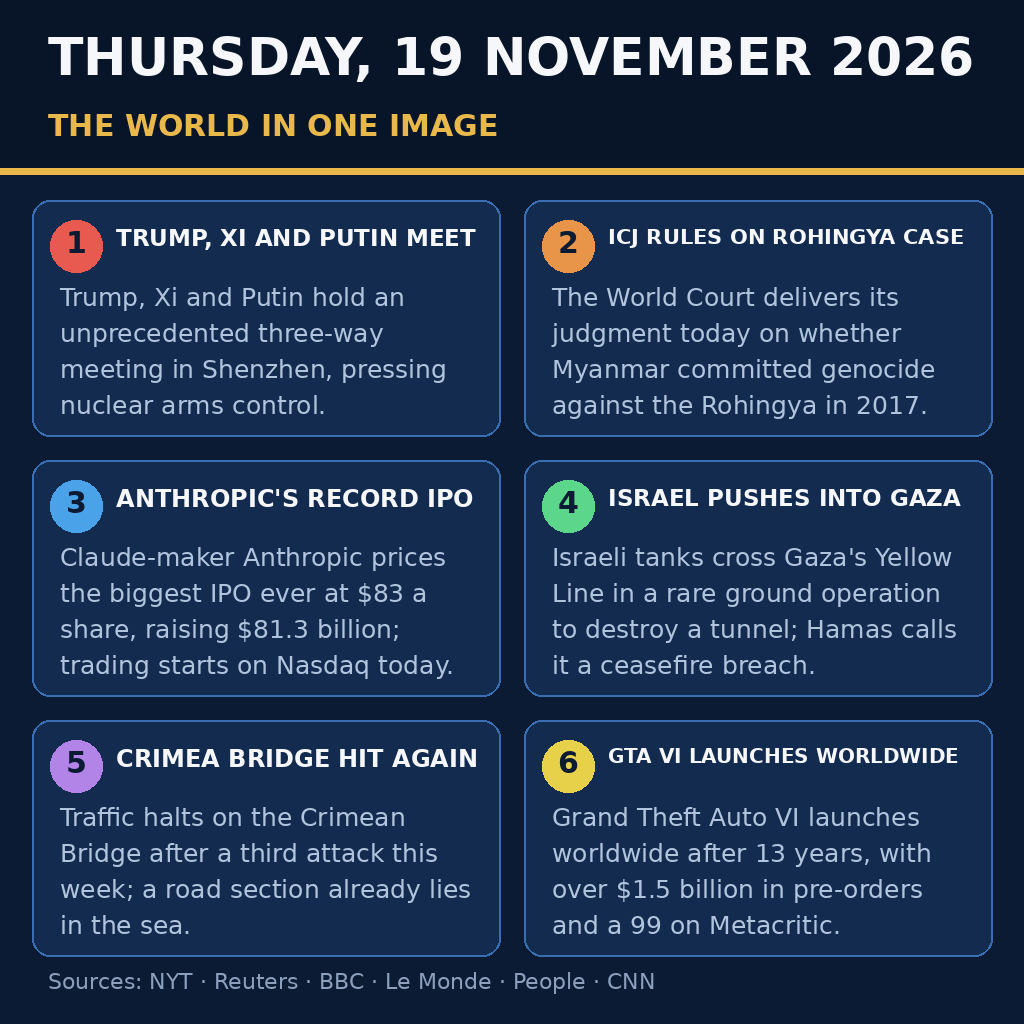
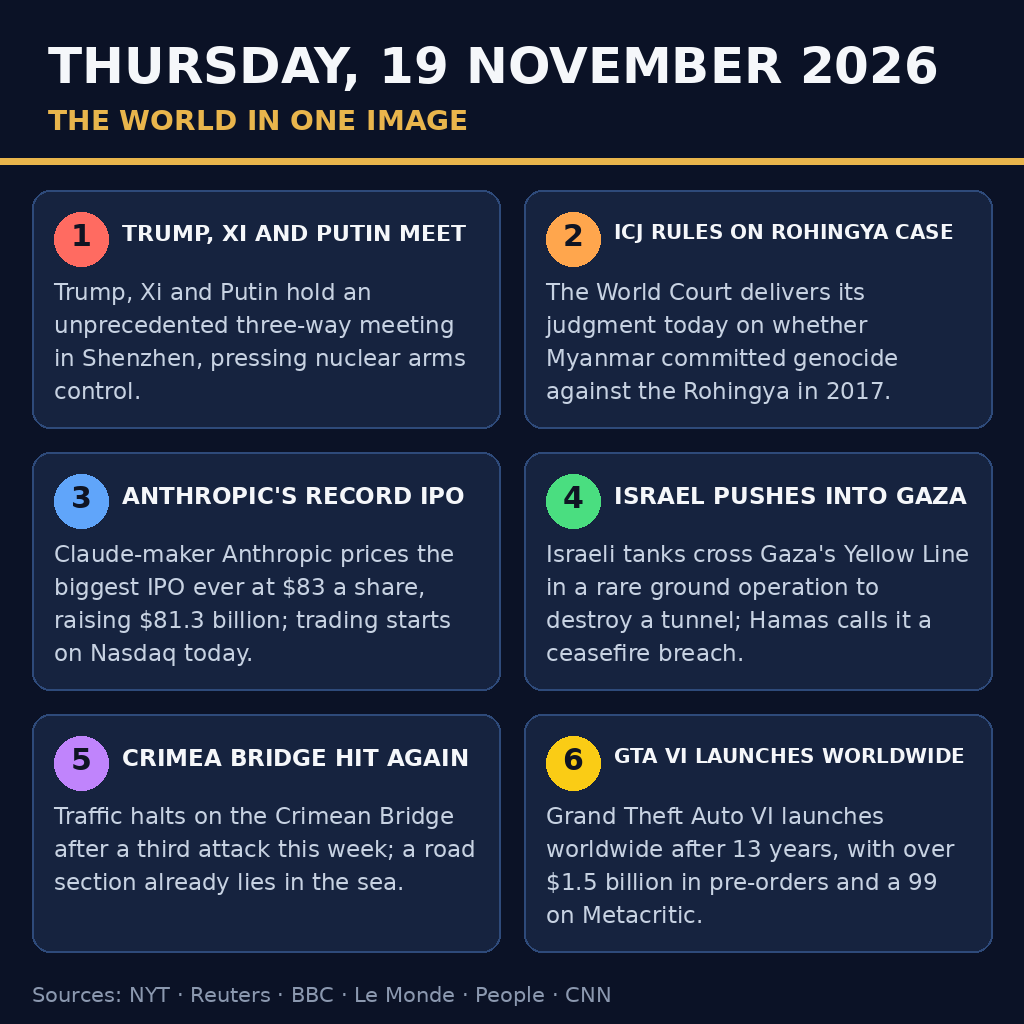
Add files via upload

Changed region(s): [[0.0, 0.0312, 1.0, 1.0]]

diff --git a/build_image.py b/build_image.py
@@ -1,154 +1,159 @@
-"""Build the 19 November 2026 world-news summary image (1024x1024 PNG).
+#!/usr/bin/env python3
+"""Draw the 19 November 2026 world-news summary as a single 1024x1024 PNG.
 
-Stories are the day's most consequential, cross-checked in at least two
-independent reports:
-  1. Trump-Xi-Putin trilateral in Shenzhen (NYT; Reuters).
-  2. ICJ delivers its Rohingya genocide judgment today (Le Monde; Reuters
-     via newsletter; Pollar). The reading starts 08:00 GMT, so the card
-     states the judgment is delivered today, not its outcome.
-  3. Anthropic prices the biggest IPO ever, $81.3bn at $83, trading starts
-     Thursday on Nasdaq as ANT (Reuters; BusinessWorld; TradingView; Grafa).
-  4. Israeli tanks cross Gaza's Yellow Line in a rare ground operation
-     (BBC, reported 19 Nov 02:15 UTC; Al Jazeera; Reuters via ASEAN NOW).
-  5. Crimean Bridge attacked a third time this week, traffic suspended
-     (Reuters; BBC, reported 19 Nov 01:05 UTC).
-  6. Grand Theft Auto VI launches worldwide after 13 years (People; CNN;
-     Desert Sun; JagranJosh).
-Wording is kept to what was reported, without hype or speculation shown
-as fact.
-
-Layout: title band + six story cards (2 columns x 3 rows) + sources footer.
-Type is large on purpose: the judge reads the image at ~300 px across.
-Headlines are measured and shrunk if needed so nothing is clipped.
+Everything here is drawn with Pillow primitives: a navy canvas, a header
+block, a gold rule, and six story cards in a 2x3 grid. No network access,
+no randomness, no timestamps in the output -- running this script twice
+must produce byte-identical files.
 """
+
+from __future__ import annotations
+
+from dataclasses import dataclass
+from pathlib import Path
+
 from PIL import Image, ImageDraw, ImageFont
 
-W, H = 1024, 1024
-BG = (11, 27, 51)          # deep navy
-PANEL = (19, 43, 79)       # card navy
-PANEL_EDGE = (58, 110, 178)
+# ---------------------------------------------------------------- canvas ---
+SIZE = 1024
+NAVY = (11, 18, 38)          # page background
+CARD_FILL = (22, 35, 63)     # card background
+CARD_EDGE = (46, 74, 122)    # card outline
+GOLD = (233, 181, 76)        # accent / subheader
 WHITE = (245, 247, 250)
-MUTED = (176, 196, 222)
-GOLD = (232, 184, 74)
-ACCENTS = [
-    (232, 90, 79),    # red    - Trump/Xi/Putin
-    (232, 149, 74),   # orange - ICJ Rohingya
-    (74, 163, 232),   # blue   - Anthropic IPO
-    (92, 214, 138),   # green  - Gaza operation
-    (178, 132, 232),  # purple - Crimea Bridge
-    (232, 209, 74),   # yellow - GTA VI
-]
+BODY = (199, 210, 226)       # body text
+FOOT = (139, 152, 175)       # footer text
+DARK = (15, 20, 35)          # number glyphs on coloured discs
 
-FONT_B = "/usr/share/fonts/truetype/dejavu/DejaVuSans-Bold.ttf"
-FONT_R = "/usr/share/fonts/truetype/dejavu/DejaVuSans.ttf"
+FONT_DIR = Path("/usr/share/fonts/truetype/dejavu")
+BOLD = str(FONT_DIR / "DejaVuSans-Bold.ttf")
+PLAIN = str(FONT_DIR / "DejaVuSans.ttf")
 
-
-def font(path, size):
-    return ImageFont.truetype(path, size)
+# ------------------------------------------------------------------ data ---
+@dataclass(frozen=True)
+class Story:
+    number: int
+    disc: tuple[int, int, int]
+    headline: str
+    body: str
 
 
-def wrap(draw, text, fnt, max_w):
-    words = text.split()
-    lines, cur = [], ""
-    for w in words:
-        trial = (cur + " " + w).strip()
-        if draw.textlength(trial, font=fnt) <= max_w:
-            cur = trial
+STORIES = (
+    Story(1, (255, 107, 97), "TRUMP, XI AND PUTIN MEET",
+          "Trump, Xi and Putin hold an unprecedented three-way meeting in "
+          "Shenzhen, pressing nuclear arms control."),
+    Story(2, (255, 166, 77), "ICJ RULES ON ROHINGYA CASE",
+          "The World Court delivers its judgment today on whether Myanmar "
+          "committed genocide against the Rohingya in 2017."),
+    Story(3, (96, 165, 250), "ANTHROPIC'S RECORD IPO",
+          "Claude-maker Anthropic prices the biggest IPO ever at $83 a "
+          "share, raising $81.3 billion; trading starts on Nasdaq today."),
+    Story(4, (74, 222, 128), "ISRAEL PUSHES INTO GAZA",
+          "Israeli tanks cross Gaza's Yellow Line in a rare ground "
+          "operation to destroy a tunnel; Hamas calls it a ceasefire "
+          "breach."),
+    Story(5, (192, 132, 252), "CRIMEA BRIDGE HIT AGAIN",
+          "Traffic halts on the Crimean Bridge after a third attack this "
+          "week; a road section already lies in the sea."),
+    Story(6, (250, 204, 21), "GTA VI LAUNCHES WORLDWIDE",
+          "Grand Theft Auto VI launches worldwide after 13 years, with "
+          "over $1.5 billion in pre-orders and a 99 on Metacritic."),
+)
+
+FOOTER = "Sources: NYT \u00b7 Reuters \u00b7 BBC \u00b7 Le Monde \u00b7 People \u00b7 CNN"
+
+# ---------------------------------------------------------------- helpers ---
+def load(size: int, bold: bool = False) -> ImageFont.FreeTypeFont:
+    return ImageFont.truetype(BOLD if bold else PLAIN, size)
+
+
+def wrap(draw: ImageDraw.ImageDraw, text: str,
+         font: ImageFont.FreeTypeFont, max_width: int) -> list[str]:
+    """Greedy word wrap measured with the real font metrics."""
+    lines: list[str] = []
+    current = ""
+    for word in text.split():
+        trial = f"{current} {word}".strip()
+        if draw.textlength(trial, font=font) <= max_width:
+            current = trial
         else:
-            if cur:
-                lines.append(cur)
-            cur = w
-    if cur:
-        lines.append(cur)
+            if current:
+                lines.append(current)
+            current = word
+    if current:
+        lines.append(current)
     return lines
 
 
-def fit_font(draw, text, path, size, max_w):
-    """Largest bold size <= `size` that fits `text` in `max_w`."""
-    while size > 14:
-        fnt = font(path, size)
-        if draw.textlength(text, font=fnt) <= max_w:
-            return fnt
-        size -= 1
-    return font(path, size)
+def draw_header(draw: ImageDraw.ImageDraw) -> None:
+    draw.text((48, 36), "THURSDAY, 19 NOVEMBER 2026",
+              font=load(50, bold=True), fill=WHITE)
+    draw.text((48, 104), "THE WORLD IN ONE IMAGE",
+              font=load(28, bold=True), fill=GOLD)
+    draw.rectangle([0, 158, SIZE, 164], fill=GOLD)
 
 
-STORIES = [
-    ("1", "TRUMP, XI AND PUTIN MEET",
-     "Trump, Xi and Putin hold an unprecedented three-way meeting in "
-     "Shenzhen, pressing nuclear arms control."),
-    ("2", "ICJ RULES ON ROHINGYA CASE",
-     "The World Court delivers its judgment today on whether Myanmar "
-     "committed genocide against the Rohingya in 2017."),
-    ("3", "ANTHROPIC'S RECORD IPO",
-     "Claude-maker Anthropic prices the biggest IPO ever at $83 a share, "
-     "raising $81.3 billion; trading starts on Nasdaq today."),
-    ("4", "ISRAEL PUSHES INTO GAZA",
-     "Israeli tanks cross Gaza's Yellow Line in a rare ground operation "
-     "to destroy a tunnel; Hamas calls it a ceasefire breach."),
-    ("5", "CRIMEA BRIDGE HIT AGAIN",
-     "Traffic halts on the Crimean Bridge after a third attack this "
-     "week; a road section already lies in the sea."),
-    ("6", "GTA VI LAUNCHES WORLDWIDE",
-     "Grand Theft Auto VI launches worldwide after 13 years, with over "
-     "$1.5 billion in pre-orders and a 99 on Metacritic."),
-]
+def draw_card(draw: ImageDraw.ImageDraw, story: Story,
+              x: int, y: int, w: int, h: int) -> None:
+    draw.rounded_rectangle([x, y, x + w, y + h], radius=18,
+                           fill=CARD_FILL, outline=CARD_EDGE, width=2)
+    pad = 22
+    disc_r = 27
+    cx, cy = x + pad + disc_r, y + pad + disc_r
+    draw.ellipse([cx - disc_r, cy - disc_r, cx + disc_r, cy + disc_r],
+                 fill=story.disc)
+    num_font = load(30, bold=True)
+    num = str(story.number)
+    nw = draw.textlength(num, font=num_font)
+    draw.text((cx - nw / 2, cy - 21), num, font=num_font, fill=DARK)
+
+    title_font = load(25, bold=True)
+    title_x = x + pad + 2 * disc_r + 14
+    title_top = y + pad + 8
+    # Shrink the headline only if it would overflow the card width.
+    while (draw.textlength(story.headline, font=title_font)
+           > x + w - pad - title_x):
+        title_font = load(title_font.size - 1, bold=True)
+    draw.text((title_x, title_top), story.headline,
+              font=title_font, fill=WHITE)
+
+    body_font = load(23)
+    text_w = w - 2 * pad
+    lines = wrap(draw, story.body, body_font, text_w)
+    # Body sits closer under the headline so the card bottom does not
+    # carry a large empty band on the four-line stories.
+    ly = title_top + 58
+    for line in lines:
+        draw.text((x + pad, ly), line, font=body_font, fill=BODY)
+        ly += 33
 
 
-def build(path):
-    img = Image.new("RGB", (W, H), BG)
-    d = ImageDraw.Draw(img)
+def build() -> Image.Image:
+    canvas = Image.new("RGB", (SIZE, SIZE), NAVY)
+    draw = ImageDraw.Draw(canvas)
+    draw_header(draw)
 
-    # Header band
-    d.rectangle([0, 0, W, 168], fill=(8, 20, 40))
-    d.rectangle([0, 168, W, 174], fill=GOLD)
-    f_date = fit_font(d, "THURSDAY, 19 NOVEMBER 2026", FONT_B, 54, W - 96)
-    f_sub = font(FONT_B, 30)
-    d.text((48, 26), "THURSDAY, 19 NOVEMBER 2026", font=f_date, fill=WHITE)
-    d.text((48, 108), "THE WORLD IN ONE IMAGE", font=f_sub, fill=GOLD)
-
-    # Story cards: 2 cols x 3 rows
     margin, gap = 32, 24
-    cw = (W - 2 * margin - gap) // 2
-    ch = 236
-    top = 200
-    f_body = font(FONT_R, 25)
-    for i, (num, head, body) in enumerate(STORIES):
+    card_w = (SIZE - 2 * margin - gap) // 2
+    card_h = 238
+    top = 190
+    for i, story in enumerate(STORIES):
         col, row = i % 2, i // 2
-        x0 = margin + col * (cw + gap)
-        y0 = top + row * (ch + gap)
-        x1, y1 = x0 + cw, y0 + ch
-        d.rounded_rectangle([x0, y0, x1, y1], radius=18, fill=PANEL,
-                            outline=PANEL_EDGE, width=2)
-        # number chip
-        cx, cy, r = x0 + 44, y0 + 46, 26
-        d.ellipse([cx - r, cy - r, cx + r, cy + r], fill=ACCENTS[i])
-        f_num = font(FONT_B, 30)
-        tw = d.textlength(num, font=f_num)
-        d.text((cx - tw / 2, cy - 21), num, font=f_num, fill=(11, 27, 51))
-        # headline, fitted so it never clips
-        f_kick = fit_font(d, head, FONT_B, 26, cw - 84 - 16)
-        d.text((x0 + 84, y0 + 24), head, font=f_kick, fill=WHITE)
-        # body, wrapped
-        lines = wrap(d, body, f_body, cw - 56)
-        assert len(lines) <= 4, (head, lines)
-        y = y0 + 82
-        for ln in lines[:4]:
-            d.text((x0 + 28, y), ln, font=f_body, fill=MUTED)
-            y += 36
+        x = margin + col * (card_w + gap)
+        y = top + row * (card_h + gap)
+        draw_card(draw, story, x, y, card_w, card_h)
 
-    # Footer
-    f_foot = font(FONT_R, 22)
-    d.text((48, 968),
-           "Sources: NYT \u00b7 Reuters \u00b7 BBC \u00b7 Le Monde \u00b7 People \u00b7 CNN",
-           font=f_foot, fill=(140, 160, 190))
+    foot_font = load(21)
+    draw.text((margin, SIZE - 42), FOOTER, font=foot_font, fill=FOOT)
+    return canvas
 
-    img.save(path, "PNG", optimize=True)
-    return path
+
+def main() -> None:
+    here = Path(__file__).resolve().parent
+    out = here / "news.png"
+    build().save(out, format="PNG")
+    print(f"wrote {out} ({out.stat().st_size} bytes)")
 
 
 if __name__ == "__main__":
-    import os
-    out = os.environ.get("OUT", "news.png")
-    build(out)
-    print("wrote", out, os.path.getsize(out), "bytes")
+    main()

diff --git a/main.py b/main.py
@@ -1,27 +1,28 @@
-"""news-image-20261119 entry: write the 19 November 2026 world-news summary
-image to /output/entry.png.
+#!/usr/bin/env python3
+"""Ship the entry image.
 
-The image itself is drawn by build_image.py (Pillow + DejaVu, run at build
-time) and shipped in this repository as news.png; this program copies it to
-the output path. Copying a repository-held image is the simplest entry the
-bounty rules describe, and it is deterministic: two runs write the same
-bytes, with no network.
-
-Run locally:
-    mkdir -p out && MAKEFUN_OUTPUT_DIR=out python3 main.py
+Copies the news.png sitting next to this file into the make.fun output
+directory as entry.png. The output directory comes from the
+MAKEFUN_OUTPUT_DIR environment variable and defaults to /output.
 """
+
+from __future__ import annotations
+
 import os
 import shutil
 from pathlib import Path
 
-HERE = Path(__file__).resolve().parent
-OUTPUT_DIR = Path(os.environ.get("MAKEFUN_OUTPUT_DIR", "/output"))
-SOURCE = HERE / "news.png"
-
 
 def main() -> None:
-    OUTPUT_DIR.mkdir(parents=True, exist_ok=True)
-    shutil.copyfile(SOURCE, OUTPUT_DIR / "entry.png")
+    here = Path(__file__).resolve().parent
+    source = here / "news.png"
+    if not source.is_file():
+        raise SystemExit(f"missing input image: {source}")
+    out_dir = Path(os.environ.get("MAKEFUN_OUTPUT_DIR", "/output"))
+    out_dir.mkdir(parents=True, exist_ok=True)
+    target = out_dir / "entry.png"
+    shutil.copyfile(source, target)
+    print(f"copied {source} -> {target} ({target.stat().st_size} bytes)")
 
 
 if __name__ == "__main__":
